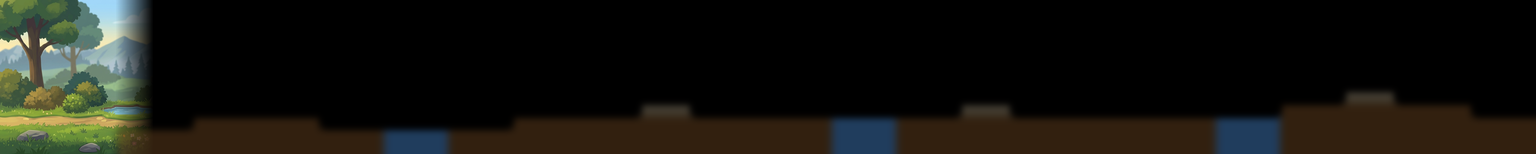
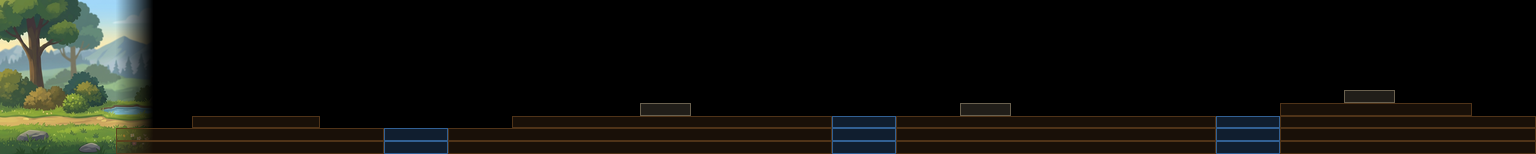
improve concepts

diff --git a/examples/game-assets-video/scripts/generate_bg_near_concept.py b/examples/game-assets-video/scripts/generate_bg_near_concept.py
@@ -133,37 +133,32 @@ def build_base_canvas(
     return base, effective_anchor_w
 
 
-def _terrain_grid_block(terrain: dict | None) -> str:
-    """Render the tilemap grid as text in the prompt — authoritative
-    layout. The AI reads char-by-char and maps each cell to its canvas
-    pixel position via grid coords."""
+def _terrain_features_block(terrain: dict | None) -> str:
+    """Render the terrain as a flat list of distinct contiguous features
+    — one per pond / platform / hazard / land-band — with x% and y%
+    positions. Replaces the dense per-char text grid; this format gives
+    the painter a small, exact list of footprints to honor."""
     if not terrain or not terrain.get("rows"):
-        return "(no terrain grid)"
-    gw, gh = terrain.get("grid_size", [0, 0])
-    rows = terrain.get("rows", [])
-    legend = terrain.get("legend", {})
-
-    # Per-char legend — kind + concept_hint, formatted compactly.
-    legend_lines = []
-    for ch, entry in legend.items():
-        if not isinstance(entry, dict):
-            continue
-        kind = entry.get("kind", "?")
-        hint = entry.get("concept_hint", "")
-        legend_lines.append(f"  '{ch}' = {kind}: {hint}")
-
-    grid_block = "\n".join(rows)
-    return (
-        f"Grid dimensions: {gw} columns × {gh} rows. The grid maps onto "
-        f"the output canvas: column x ∈ [0, {gw}) corresponds to pixel "
-        f"x_px ∈ [0, output_width); row y ∈ [0, {gh}) corresponds to "
-        f"y_px ∈ [0, output_height) (top → bottom).\n\n"
-        f"Legend (each char in the grid maps to a terrain kind):\n"
-        + "\n".join(legend_lines)
-        + "\n\n"
-        f"Grid (read top-to-bottom, left-to-right; each char is one cell):\n"
-        f"```\n{grid_block}\n```"
-    )
+        return "(no terrain features)"
+    from lib.terrain_sketch import extract_feature_regions
+    regions = extract_feature_regions(terrain)
+    if not regions:
+        return "(no terrain features)"
+    # Sort by kind (so "land" bands come first as overall ground band, then
+    # waters, platforms, hazards), then by x position.
+    kind_order = {"land": 0, "water": 1, "platform": 2, "hazard": 3}
+    regions.sort(key=lambda r: (kind_order.get(r["kind"], 99), r["x_lo"]))
+    out = []
+    for r in regions:
+        rng_x_tile = f"[{r['x_lo']}..{r['x_hi']}]"
+        rng_y_tile = f"[{r['y_lo']}..{r['y_hi']}]"
+        rng_x_pct = f"{r['x_lo_pct']}-{r['x_hi_pct']}%"
+        rng_y_pct = f"{r['y_lo_pct']}-{r['y_hi_pct']}%"
+        out.append(
+            f"  - {r['kind']:<10} x_tile={rng_x_tile:<14} y_tile={rng_y_tile:<10}  "
+            f"(x={rng_x_pct:<14} y={rng_y_pct} of canvas)"
+        )
+    return "\n".join(out)
 
 
 def build_prompt(spec: dict, api_w: int, api_h: int, anchor_w: int, terrain_legend: str = "", terrain: dict | None = None) -> str:
@@ -183,8 +178,12 @@ The canvas (image #1) has two distinct parts. They serve DIFFERENT purposes and 
 **PART A — THE LEFT PAINTED REGION (the first ~{anchor_pct}% of the canvas, columns 0 to ~{anchor_w}):**
 This is the STYLE REFERENCE. It is the ONLY source of truth for: brush feel, color saturation, level of detail, rendering technique, line softness, how trees are drawn, how mountains are drawn, how foliage clumps look, how the ground band is shaded, how lighting falls. Study it. Match it EXACTLY. Do NOT add more detail than it has. Do NOT make mountains more rugged, foliage more textured, or shading more dramatic than what is shown there. If the reference looks soft, simple, hand-painted, and uncluttered, your extension MUST be equally soft, simple, hand-painted, and uncluttered. Do NOT borrow style from your training data — the only style permitted is what is shown in PART A.
 
-**PART B — THE LAYOUT HINTS (soft colored regions on the rest of the canvas):**
-This is the LAYOUT GUIDE — ONLY a layout guide. The colored regions are SOFT, BLURRY HINTS of where different terrain features should go. They are NOT shapes to copy. They are NOT design elements. They have NO crisp edges, NO straight lines, NO grid pattern, NO symbols. Treat them as a vague colored mist showing the rough zones for water / land / platforms. The painted output must have ORGANIC, IRREGULAR edges — natural curves, soft horizons, varied foliage borders — NEVER straight rectangular edges that follow the hint shapes literally. If a water hint is a rectangle, you paint a NATURAL pond with curved banks. If a land hint is a rectangle, you paint a NATURAL ground band with an undulating top edge.
+**PART B — THE LAYOUT MARKERS (colored outline boxes with semi-transparent fills, on the rest of the canvas):**
+This is the LAYOUT GUIDE — and the FOOTPRINT IS PRECISE. Each colored marker is a rectangle with a clear outline; the rectangle's footprint (x and y range) is EXACTLY where its kind of terrain feature must be painted in your output. The painter is NOT free to shift features for aesthetic reasons. Honor every footprint within ±5% of its position.
+
+Inside each footprint you have CREATIVE freedom — paint reeds and lily pads in a water footprint however you like, paint grass tufts and wood detail on a platform footprint however you like — but the OUTER BOUNDARIES of each painted feature must align with the markers. A water footprint paints as a pond whose shoreline matches the marker's rectangle; a platform footprint paints as a raised ledge whose top edge matches the marker's top row; a land footprint paints as ground whose top edge matches the marker's topmost row.
+
+The marker outline + fill colors do NOT survive into the output — paint OVER them. Only the painted features remain.
 
 # Style fidelity — non-negotiable
 
@@ -197,16 +196,14 @@ The painter / rendering style across the whole output must be IDENTICAL to PART 
 
 A viewer should NOT be able to tell where PART A ends and your painting begins. Not by style, not by detail, not by color, not by brush feel.
 
-# Naturalism — non-negotiable
+# Naturalism inside fixed footprints
 
-This is a PRODUCTION GAME MAP, not a diagram. The output must look like a real, natural landscape painted as a game backdrop:
-- NO straight rectangular edges anywhere. Ground tops undulate. Pond edges curve. Platforms are rounded shelf-like rocks or grassy mounds, not perfect rectangles.
-- NO grid pattern. NO repeating tile boundaries. NO visible cell structure.
-- NO outline or X markings of any kind in the output. NO numbers, letters, or symbols.
-- NO unnaturally regular spacing of features (e.g. ponds at exact equal intervals look fake — vary the spacing visually with surrounding rocks/foliage so they read as naturally placed).
-- Ponds blend INTO the surrounding land with reedy banks, not as floating blue rectangles.
-- Platforms / ledges are integrated into the terrain — a raised mossy boulder, a tree stump shelf, a cliff lip — NOT a plank floating in the air.
-- Transitions from one biome cue to the next are GRADUAL, no hard boundaries.
+The output must look like a real painted landscape — but with EVERY feature placed where its marker says:
+- The OUTLINE of a feature matches its marker rectangle (footprint fidelity ≥ 95%). Don't shift, don't drop, don't merge with neighbors.
+- INSIDE each footprint, the painted detail is creative and natural — soft pond banks with reeds, mossy boulder lips, undulating grass tops on the ground band. Internal detail is hand-painted style.
+- NO marker colors visible in the output. NO outlines, no rectangles, no diagrammatic lines.
+- NO unauthorized features — only paint what the marker list says. Don't invent a pond between two existing ponds; don't invent a cliff because the area looks empty.
+- Transitions BETWEEN features are gradual (e.g. land bordering water has muddy/reedy bank), but feature CENTERS are exactly where their markers point.
 
 # Anchor handoff (no seam)
 
@@ -224,18 +221,19 @@ The painted reference's right edge fades smoothly to BLACK over a gradient zone.
 
 # Skeleton legend (layout only — style comes from PART A)
 
-The visible soft regions on the canvas are blurry layout hints. The AUTHORITATIVE layout is the text grid below — read it character by character, map each char to its kind via the legend, and paint that cell's canvas region with the appropriate biome-natural feature in PART A's style.
-
 {terrain_legend}
 
-# Authoritative tilemap grid (read this to know exactly what to paint where)
+# Feature list (exact footprints — paint inside each)
 
-{_terrain_grid_block(terrain)}
+The canvas grid is {(terrain or {}).get('grid_size', [0,0])[0]} columns × {(terrain or {}).get('grid_size', [0,0])[1]} rows of concept tiles. Each contiguous block of same-kind cells is ONE feature in your painting. Below is the complete list of features to paint, with their exact x-tile / y-tile bounding boxes AND the equivalent canvas % positions:
+
+{_terrain_features_block(terrain)}
 
 When painting:
-- Adjacent same-kind cells form ONE contiguous, organically-shaped feature — not separate cells.
-- Edges between kinds are NATURAL curves (pond shorelines, ground undulations), NOT cell boundaries.
-- The visual hint regions on the canvas are deliberately blurred so you don't copy their rectangular shapes — use the text grid for precise positions and naturalize the edges.
+- For EACH feature in the list, paint that kind in its exact footprint. The painted feature's outer boundary must align with the listed x and y range.
+- Adjacent same-kind features may visually merge (e.g. two water rectangles touching at an edge become one larger pond), but the OUTER footprint of the merged feature must still cover all listed cells.
+- Painted feature INTERIORS are creative — natural curves, vegetation, brush detail in PART A's style.
+- Empty regions (vast cells, marked with the ".") become continuation of PART A's sky/atmosphere/mid-distance painting in those rows.
 
 # Canonical palette (locked across the whole image — same as PART A)
 

diff --git a/examples/game-assets-video/scripts/lib/terrain_sketch.py b/examples/game-assets-video/scripts/lib/terrain_sketch.py
@@ -80,12 +80,15 @@ def build_terrain_sketch(
     overlay = Image.new("RGBA", (api_w, api_h), (0, 0, 0, 0))
     draw = ImageDraw.Draw(overlay)
 
-    # Soft regions — RLE-merge contiguous same-kind cells per row into
-    # ONE filled rectangle, no outline, no X. Adjacent rows with same kind
-    # in the same column range will visually merge into a continuous
-    # region. Then Gaussian-blur the whole overlay so edges are soft and
-    # organic. The painter sees "areas of kind", not "grid of cells",
-    # which produces natural curves rather than rigid cell boundaries.
+    # Crisp position cues: per-row RLE-merged rectangles with a low-alpha
+    # FILL (the AI sees "what kind goes here") plus a high-alpha OUTLINE
+    # (the AI sees the exact footprint boundary). NO blur — positional
+    # fidelity matters more than aesthetic softness here. The prompt
+    # tells the model to paint INSIDE the outlined footprint.
+    stroke = max(1, int(round(min(cell_w, cell_h) * 0.10)))
+    fill_alpha_default = 70
+    outline_alpha_default = 220
+
     for y, row in enumerate(rows):
         if len(row) != grid_w:
             continue
@@ -100,20 +103,80 @@ def build_terrain_sketch(
             entry = legend.get(ch)
             color_hex = entry.get("color") if isinstance(entry, dict) else None
             if color_hex:
-                alpha = int(entry.get("alpha", 140)) if isinstance(entry, dict) else 140
-                color = _hex_rgba(color_hex, alpha=alpha)
+                fill_alpha = int(entry.get("fill_alpha", fill_alpha_default)) if isinstance(entry, dict) else fill_alpha_default
+                outline_alpha = int(entry.get("outline_alpha", outline_alpha_default)) if isinstance(entry, dict) else outline_alpha_default
+                fill_color = _hex_rgba(color_hex, alpha=fill_alpha)
+                outline_color = _hex_rgba(color_hex, alpha=outline_alpha)
                 px_lo = int(round(x * cell_w))
                 px_hi = int(round(x_end * cell_w))
                 px_lo = max(px_lo, skip_left_px)
                 if px_hi > skip_left_px and px_hi > px_lo:
-                    draw.rectangle([(px_lo, py_lo), (px_hi, py_hi)], fill=color)
+                    draw.rectangle(
+                        [(px_lo, py_lo), (px_hi - 1, py_hi - 1)],
+                        fill=fill_color, outline=outline_color, width=stroke,
+                    )
             x = x_end
 
-    # Gaussian blur to soften the rectangular edges into organic regions.
-    blur_radius = max(2, int(round(min(cell_w, cell_h) * 0.35)))
-    overlay = overlay.filter(ImageFilter.GaussianBlur(radius=blur_radius))
-
     return overlay
+
+
+def extract_feature_regions(terrain: dict, skip_kinds: tuple[str, ...] = ("vast",)) -> list[dict]:
+    """Flood-fill contiguous same-kind cells into discrete features.
+
+    Returns a list of {kind, char, x_lo, y_lo, x_hi, y_hi (tile coords,
+    inclusive bbox), x_lo_pct, y_lo_pct, x_hi_pct, y_hi_pct} entries.
+    Skips kinds in skip_kinds (default: vast = no feature). 4-connected
+    BFS so diagonally-touching cells are separate features.
+    """
+    grid_w, grid_h = terrain.get("grid_size") or [0, 0]
+    rows = terrain.get("rows") or []
+    legend = terrain.get("legend") or {}
+    if grid_w <= 0 or grid_h <= 0 or len(rows) != grid_h:
+        return []
+    skip_chars = {ch for ch, e in legend.items()
+                  if isinstance(e, dict) and e.get("kind") in skip_kinds}
+
+    seen = [[False] * grid_w for _ in range(grid_h)]
+    out: list[dict] = []
+    for y in range(grid_h):
+        if len(rows[y]) != grid_w:
+            continue
+        for x in range(grid_w):
+            if seen[y][x]: continue
+            ch = rows[y][x]
+            if ch in skip_chars or ch not in legend:
+                seen[y][x] = True
+                continue
+            # BFS from (x,y) over same-char 4-connected cells.
+            stack = [(x, y)]
+            x_lo, x_hi = x, x
+            y_lo, y_hi = y, y
+            while stack:
+                cx, cy = stack.pop()
+                if cx < 0 or cy < 0 or cx >= grid_w or cy >= grid_h: continue
+                if seen[cy][cx]: continue
+                if rows[cy][cx] != ch: continue
+                seen[cy][cx] = True
+                if cx < x_lo: x_lo = cx
+                if cx > x_hi: x_hi = cx
+                if cy < y_lo: y_lo = cy
+                if cy > y_hi: y_hi = cy
+                stack.append((cx + 1, cy))
+                stack.append((cx - 1, cy))
+                stack.append((cx, cy + 1))
+                stack.append((cx, cy - 1))
+            entry = legend.get(ch, {})
+            kind = entry.get("kind", "?") if isinstance(entry, dict) else "?"
+            out.append({
+                "kind": kind,
+                "char": ch,
+                "x_lo": x_lo, "y_lo": y_lo, "x_hi": x_hi, "y_hi": y_hi,
+                "x_lo_pct": round(100.0 * x_lo / grid_w, 1),
+                "x_hi_pct": round(100.0 * (x_hi + 1) / grid_w, 1),
+                "y_lo_pct": round(100.0 * y_lo / grid_h, 1),
+                "y_hi_pct": round(100.0 * (y_hi + 1) / grid_h, 1),
+            })
+    return out
 
 
 def build_legend(terrain: dict) -> str:
